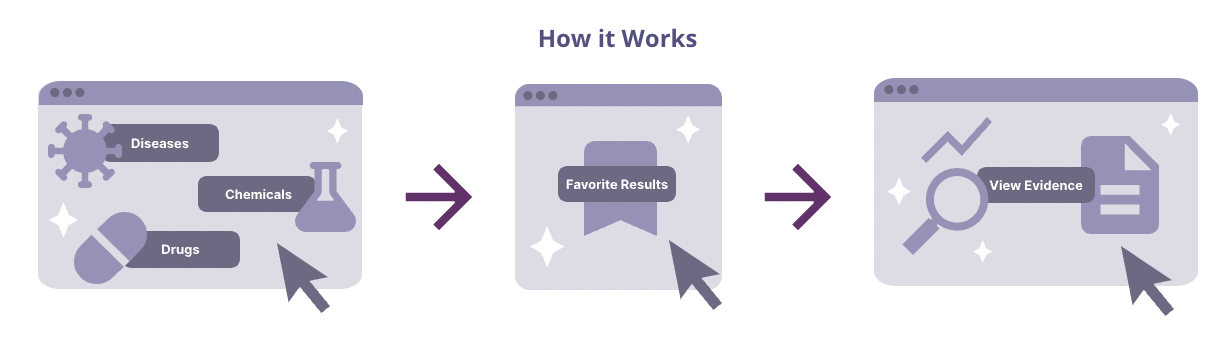
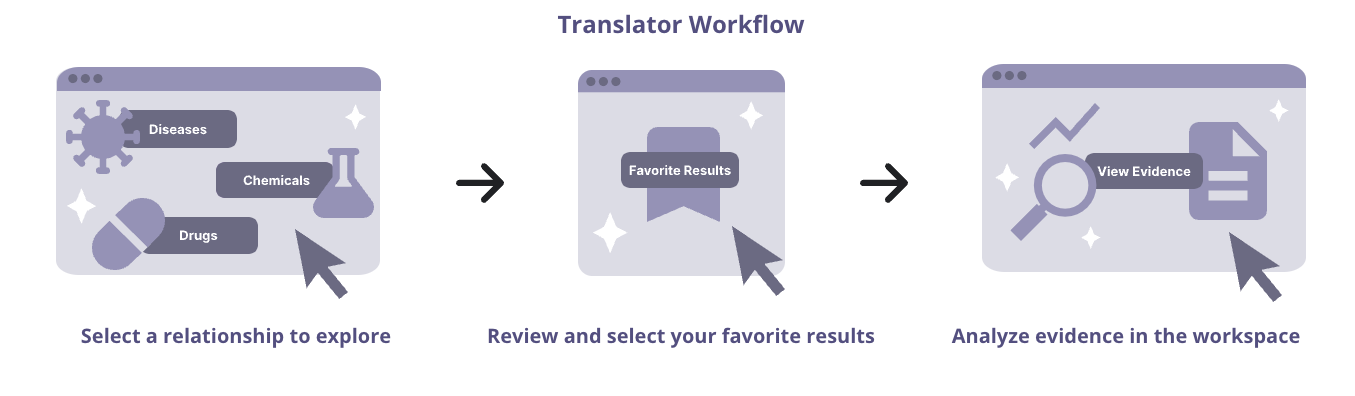
update help pages with new screenshots, adjust some language

diff --git a/src/PageRoutes/Articles/ExploringRelationships.jsx b/src/PageRoutes/Articles/ExploringRelationships.jsx
@@ -1,5 +1,4 @@
 import selectRelImage from "../../Assets/Images/selectRel.png";
-import geneQueryImage from "../../Assets/Images/genequery.png";
 import searchTermImage from "../../Assets/Images/searchterm.png";
 import returnedImage from "../../Assets/Images/returned.png";
 
@@ -7,20 +6,17 @@ export const ExploringRelationships = () => {
 
   return (
     <>
-      <p className="caption">Last updated on September 8th, 2023</p>
+      <p className="caption">Last updated on September 25th, 2024</p>
       <p>Translator facilitates the exploration of 3 types of questions:</p>
       <ol>
-        <li>How chemical are related to diseases and how they may treat them.</li>
-        <li>Given a gene, find drugs that impact its activity.</li>
-        <li>Given a chemical, what genes' activity is affected.</li>
+        <li>How chemicals are related to diseases and how they may treat them.</li>
+        <li>Given a gene, find chemicals that impact its activity.</li>
+        <li>Given a chemical, what genes' activity is affected by that chemical.</li>
       </ol>
-      <p><strong>Select a relationship to expose the search bar.</strong></p>
+      <p><strong>Use the dropdown to select the relationship you'd like to explore.</strong></p>
       <p style={{'text-align': 'center'}}><img src={selectRelImage} alt="select a relationship you'd like to explore example" /></p>
 
-      <p><strong>If the Gene - Chemical relationship is selected, this will expose options to further specify the type of relationship and which direction the gene activity will be impacted.</strong></p>
-      <p style={{'text-align': 'center'}}><img src={geneQueryImage} alt="chemical gene query example" /></p>
-
-      <p><strong>Enter the desired term to explore.</strong> The search bar's autocomplete function will provide options for searchable terms. Select the term by clicking it and the search will run.</p>
+      <p><strong>Enter the your desired term.</strong> The search bar's autocomplete functionality will provide options for searchable terms. Select the term by clicking it, then click the submit button on the right to submit your search.</p>
       <p style={{'text-align': 'center'}}><img src={searchTermImage} alt="submitting a search term example" /></p>
       <p><strong>Optimized search:</strong></p>
       <ol>
@@ -29,7 +25,7 @@ export const ExploringRelationships = () => {
         <li>If the term is a chemical, brand name drugs or the chemical name may be searched. Some terms are only mapped to one or the other. If the expected result is not show for one, try the other.</li>
       </ol>
 
-      <p><strong>Results are returned.</strong> Translator has five reasoning engines that may return results. Once some of the results are ready, they will be displayed (as shown below) while the remaining reasoners continue to be developed. Once additional results are found, the process indicator will indicate 'Load New Results.' (see below). Click the link to load the new results in the view.</p>
+      <p><strong>Results are returned.</strong> Translator has five reasoning engines that may return results. Once some of the results are ready, they will be displayed (as shown below) while the remaining reasoners continue to be developed. Once additional results are found, the process indicator will indicate 'Sync New Results.' (see below). Click the button to load the new results into the view.</p>
       <p style={{'text-align': 'center'}}><img src={returnedImage} alt="example showing results" /></p>
     </>
   );

diff --git a/src/PageRoutes/Articles/ReviewIdentify.jsx b/src/PageRoutes/Articles/ReviewIdentify.jsx
@@ -1,5 +1,4 @@
 import reviewImage from "../../Assets/Images/review.png";
-import pathsImage from "../../Assets/Images/paths.png";
 import filterImage from "../../Assets/Images/filter.png";
 import bookmarkImage from "../../Assets/Images/bookmark.png";
 import pubsImage from "../../Assets/Images/pubs.png";
@@ -10,12 +9,9 @@ export const ReviewIdentify = () => {
 
   return (
     <>
-      <p className="caption">Last updated on September 8th, 2023</p>
-      <p><strong>Review the result network.</strong> The knowledge graph representing the connections between a result and the search term are displayed with tools to explore.</p>
-      <p style={{'text-align': 'center'}}><img src={reviewImage} alt="example showing a results graph" /></p>
-      
-      <p><strong>Explore the paths.</strong> Each network is broken out into every path through the network to explore individually. Each concept is displayed with its relationship to another concept.  Selecting the connecting relationships (affects, treats, or contributes to below) will display the evidence supporting that relationship.</p>
-      <p style={{'text-align': 'center'}}><img src={pathsImage} alt="example showing the paths from a result" /></p>
+      <p className="caption">Last updated on September 25th, 2024</p>
+      <p><strong>Explore the paths.</strong> Under the <i>Paths</i> tab each result is simplified into a list of paths that connect the result to the requested term. Each network is broken out into every path through the network to explore individually. Each concept is displayed with its relationship to another concept.  Selecting the connecting relationships (affects, treats, or contributes to below) will display the evidence supporting that relationship.</p>
+      <p style={{'text-align': 'center'}}><img src={reviewImage} alt="example showing the paths from a result" /></p>
 
       <p><strong>Filtering results.</strong> Results can be filtered to identify the most valuable to users.</p>
       <p>
@@ -25,7 +21,7 @@ export const ReviewIdentify = () => {
           <li>The chebi roles for each result are shown (when the results are chemicals) for each result. Selecting a role will filter all of the results to display only those with the same role.</li>  
         </ol>
       </p>
-      <p style={{'text-align': 'center'}}><img src={filterImage} alt="results page with filter bar on left" /></p>
+      <p style={{'text-align': 'center'}}><img src={filterImage} style={{'width' : '300px'}} alt="results page with filter bar on left" /></p>
 
       <p><strong>Select the results that are worth further study.</strong> The bookmark icon indicates if a result has been identified as a favorite. Either selecting the bookmark or utilizing the notes function (automatically activating the bookmark) will identify results for further study.</p> 
       <p>Selecting the bookmark icon (<Bookmark style={{"display":"inline", "width":"20px", "margin-bottom": "-4px"}} />) or creating a note about a result saves it for further review in the workspace.</p>

diff --git a/src/PageRoutes/Articles/Help.jsx b/src/PageRoutes/Articles/Help.jsx
@@ -1,11 +1,12 @@
 import { Link } from "react-router-dom";
 import shareImage from '../../Assets/Images/share.png';
+import shareResultImage from '../../Assets/Images/shareResult.png';
 
 export const Help = () => {
 
   return (
     <>
-      <p className="caption">Last updated on September 8th, 2023</p>
+      <p className="caption">Last updated on September 26th, 2024</p>
       <h2 className="h6">How is this tool different from a search engine?</h2>
       <p>The Translator UI is a tool designed for the exploration of biomedical knowledge. Unlike search engines which provide an answer based on a topic search, Translator uses reasoning, based on biomedical knowledge, to provide probable answers supported by known evidence. This allows the user to explore the relationships between biomedical concepts.</p>
       <p>Given the complexity of the results and the different goals of users, the UI provides multiple ways to sort and filter results to identify those most relevant to a user.</p>
@@ -61,8 +62,10 @@ export const Help = () => {
       <p>To enable the discovery of new usages of chemicals, Translator does not constrain the chemical space to drugs or commercialized compounds.</p>
       
       <h2 className="h6">How can I share my results?</h2>
-      <p>Click on the purple export icon to the top right of a result list to generate a shareable link. This link can also be generated by clicking the same icon next to a result set in <Link to={`/history`}>search history</Link>.</p>
-      <p style={{textAlign: 'center'}}><img src={shareImage} alt="example screenshot showing export button on results page" /></p>
+      <p>Click on the "Share Result Set" button at the top of the result list to generate a shareable link. This link can also be generated by clicking the same icon next to a result set in <Link to={`/history`}>search history</Link>.</p>
+      <p style={{textAlign: 'center'}}><img src={shareImage} style={{maxWidth: '600px'}} alt="example screenshot showing share button on results page" /></p>
+      <p>Additionally you can generate a link to a specific result by clicking the share button on an that result.</p>
+      <p style={{textAlign: 'center'}}><img src={shareResultImage} alt="example screenshot showing share button on individual result" /></p>
 
     </>
   );

diff --git a/src/PageRoutes/Articles/SearchHistoryArticle.jsx b/src/PageRoutes/Articles/SearchHistoryArticle.jsx
@@ -1,11 +1,12 @@
+import historyImage from "../../Assets/Images/history.png";
 
 export const SearchHistoryArticle = () => {
   return (
     <>
-      <p className="caption">Last updated on September 6th, 2022</p>
-      <p>The results of the questions you have asked are stored locally in your browser's history for 30 days. Quickly return to a set of results by selecting the desired row. You can generate a shareable link to your results by clicking the purple export icon to the left of each row. Enter a subject in the search bar at the top of the page to find corresponding result sets.</p>
-      <p style={{textAlign: 'center'}}><img referrerPolicy="no-referrer" src="https://lh3.googleusercontent.com/RHtDQafKIi6w03dp8ZLn8s6pFIfkdzo31pjJd1spbgb8Wk4jJ0ARyEL2ggdauGiajR8=w2400" alt="Search History"/></p>
-      <p>Remove a result set from your history by clicking the X icon to the right of the row. To delete the search history for a single date, click the “Clear” text to the right of the desired date. Clicking “Clear All” at the top of the page will delete your entire result history; please note that this action cannot be undone.</p>
+      <p className="caption">Last updated on September 26th, 2024</p>
+      <p>The results of the questions you have asked are stored locally in your browser's history for 30 days. Quickly return to a set of results by selecting the desired row. You can generate a shareable link to your results by clicking the share icon to the left of each row. Enter a subject in the search bar at the top of the page to find corresponding result sets.</p>
+      <p style={{textAlign: 'center'}}><img src={historyImage} alt="Search History"/></p>
+      <p>Remove a result set from your history by clicking the X icon to the right of the row. Clicking “Clear All” at the top of the page will delete your entire result history; please note that this action cannot be undone.</p>
     </>
   );
 }

diff --git a/src/PageRoutes/Articles/LoggingIn.jsx b/src/PageRoutes/Articles/LoggingIn.jsx
@@ -5,7 +5,7 @@ export const LoggingIn = () => {
 
   return (
     <>
-      <p className="caption">Last updated on September 8th, 2023</p>
+      <p className="caption">Last updated on September 25th, 2024</p>
       <p>The full suite of tools for Translator can be accessed after logging in.  This includes selecting targets for the available queries and access to the workspace for saved results. </p>
       <p style={{'text-align': 'center'}}><img src={headerImage} alt="header with login button" /></p>
       <p>The top navigation bar includes a login button.  This takes the user to the login page where there are multiple options for logging in.</p>

diff --git a/src/PageRoutes/Articles/UserPreferences.jsx b/src/PageRoutes/Articles/UserPreferences.jsx
@@ -4,7 +4,7 @@ export const UserPreferences = () => {
 
   return (
     <>
-      <p className="caption">Last updated on September 8th, 2023</p>
+      <p className="caption">Last updated on September 25th, 2024</p>
       <p>The interface has a number of settings that can be adjusted based on a user's preferences.  The defaults for those settings can be accessed here on the 'User Preferences' page. This page is accessed by clicking the user icon to the left of the 'Log Out' button.</p>
       <p style={{'text-align': 'center'}}><img src={userprefsImage} alt="list of user preferences" /></p>
     </>

diff --git a/src/PageRoutes/Articles/Workspace.jsx b/src/PageRoutes/Articles/Workspace.jsx
@@ -4,7 +4,7 @@ export const WorkspaceHelp = () => {
 
   return (
     <>
-      <p className="caption">Last updated on September 8th, 2023</p>
+      <p className="caption">Last updated on September 25th, 2024</p>
       <p>The workspace retains all results that have been bookmarked. Other results are removed to allow focused review.</p>
       <p style={{'text-align': 'center'}}><img src={workspaceImage} alt="bookmarks displayed on the workspace page" /></p>
     </>

diff --git a/src/PageRoutes/Articles/Overview.jsx b/src/PageRoutes/Articles/Overview.jsx
@@ -4,7 +4,7 @@ export const Overview = () => {
 
   return (
     <>
-      <p className="caption">Last updated on September 8th, 2023</p>
+      <p className="caption">Last updated on September 25th, 2024</p>
       <p style={{'text-align': 'center'}}><img src={howItWorksImage} alt="shows how translator works in three steps" /></p>
       <p>The process of exploring Translator knowledge can be summarized as three steps:</p>
       <ol>

diff --git a/src/PageRoutes/History/History.jsx b/src/PageRoutes/History/History.jsx
@@ -29,7 +29,7 @@ const History = () => {
                 <h2>Search History</h2>
                 <Button 
                   handleClick={()=>setModalOpen(true)}
-                  className={`${styles.button} clear-all-search-history`}
+                  className={`${styles.button} ${styles.clearButton}`}
                   isSecondary
                   >
                   <CloseIcon/>

diff --git a/src/PageRoutes/History/History.module.scss b/src/PageRoutes/History/History.module.scss
@@ -32,6 +32,9 @@
       margin: 0;
     }
   }
+  .clearButton {
+    padding: 4px 8px;
+  }
   .noHistory {
     margin: 30px auto;
     padding: 30px;
